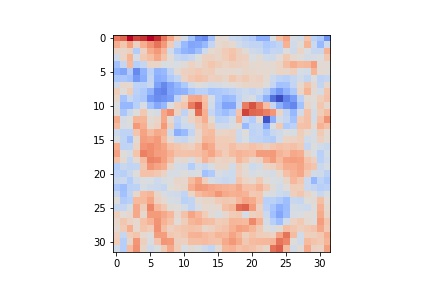
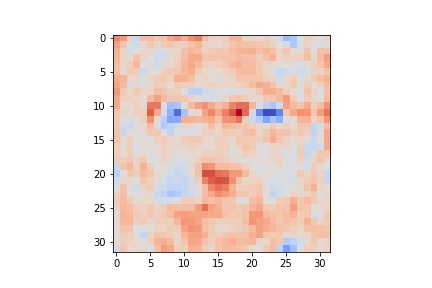
finish part9

Changed region(s): [[0.2407, 0.0938, 0.7824, 0.875]]

diff --git a/assignment2/part8/faces.py b/assignment2/part8/faces.py
@@ -418,7 +418,7 @@ def part9(S):
 
     for i in range(12):
         fig = plt.figure(90+i)
-        plt.imshow(model[0].weight.data.numpy()[10, :].reshape(S), cmap=plt.cm.coolwarm)
+        plt.imshow(model[0].weight.data.numpy()[i, :].reshape(S), cmap=plt.cm.coolwarm)
         fig.savefig(dirpath + '/part9_%i.jpg'%i)
         plt.show()
 
